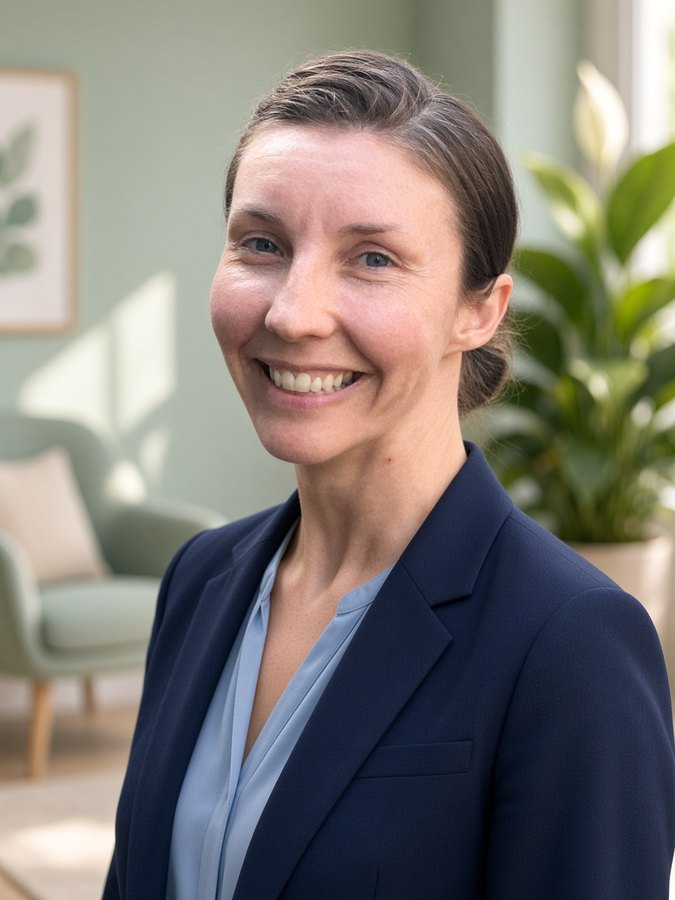
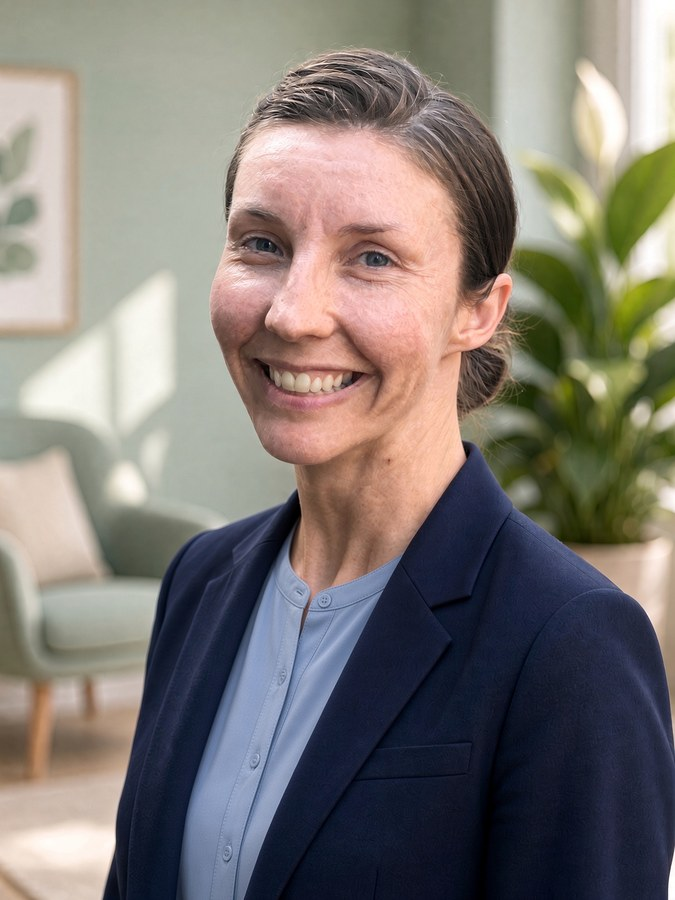
Update Tanya's portrait and feature the teaching head on the home page.

diff --git a/src/routes/index.tsx b/src/routes/index.tsx
@@ -28,6 +28,7 @@ function Home() {
             <h1 className="mt-3 font-display text-4xl text-navy sm:text-5xl">
               Northwest Neurofeedback Networking
             </h1>
+            <HeroVisual className="mt-8 lg:hidden" />
             <NnnEdit
               id="org.mission_paragraph"
               status="CONFIRMED"
@@ -65,12 +66,7 @@ function Home() {
               </Link>
             </div>
           </div>
-          <div className="flex justify-center lg:justify-end">
-            <BrandMark
-              alt="NNN wordmark with an EEG wave through the letters"
-              className="w-full max-w-md object-contain"
-            />
-          </div>
+          <HeroVisual className="hidden lg:block" />
         </div>
       </section>
 
@@ -105,6 +101,23 @@ function Home() {
         heading="What neurofeedback can look like"
       />
     </PageShell>
+  );
+}
+
+function HeroVisual({ className = "" }: { className?: string }) {
+  const photo = photoById("cap-side");
+  return (
+    <div className={`mx-auto w-full max-w-lg ${className}`}>
+      <BrandMark
+        alt="NNN wordmark with an EEG wave through the letters"
+        className="mx-auto w-full max-w-[15rem] object-contain sm:max-w-xs"
+      />
+      <img
+        src={photo.src}
+        alt={photo.alt}
+        className="mt-2 aspect-[3/2] w-full object-cover object-[58%_center] [mask-image:radial-gradient(ellipse_at_center,black_58%,transparent_88%)] sm:aspect-[4/3] sm:object-center lg:aspect-[5/4]"
+      />
+    </div>
   );
 }
 

diff --git a/src/components/placeholder-media.tsx b/src/components/placeholder-media.tsx
@@ -5,7 +5,7 @@ export function PhotoPlaceholder({
   photo,
 }: {
   personId: string;
-  photo?: { src: string; alt: string };
+  photo?: { src: string; alt: string; focus?: string };
 }) {
   if (photo) {
     return (
@@ -18,7 +18,7 @@ export function PhotoPlaceholder({
         <img
           src={photo.src}
           alt={photo.alt}
-          className="h-60 w-full object-cover object-top"
+          className={`h-64 w-full object-cover ${photo.focus ?? "object-top"}`}
         />
       </NnnEdit>
     );
@@ -61,7 +61,7 @@ export function LogoPlaceholder({
           alt={logo.alt}
           className={
             logo.banner
-              ? "w-full rounded-md border border-line object-cover"
+              ? "h-28 w-full rounded-md border border-line object-cover object-center"
               : logo.wide
                 ? "h-10 w-auto max-w-[14rem] object-contain object-left"
                 : "h-16 w-16 object-contain"

diff --git a/src/data/site.ts b/src/data/site.ts
@@ -90,7 +90,7 @@ export type PersonCard = {
   sites: { slug: string; href: string; label: string }[];
   disclaimer?: string;
   contactLines?: string[];
-  photo?: { src: string; alt: string };
+  photo?: { src: string; alt: string; focus?: string };
   logos?: { src: string; alt: string; wide?: boolean; banner?: boolean }[];
 };
 
@@ -236,6 +236,7 @@ export const PEOPLE: PersonCard[] = [
     photo: {
       src: peopleSrc("tanya-stewart.jpg"),
       alt: "Portrait of Tanya M. Stewart",
+      focus: "object-[center_28%]",
     },
     logos: [
       {
